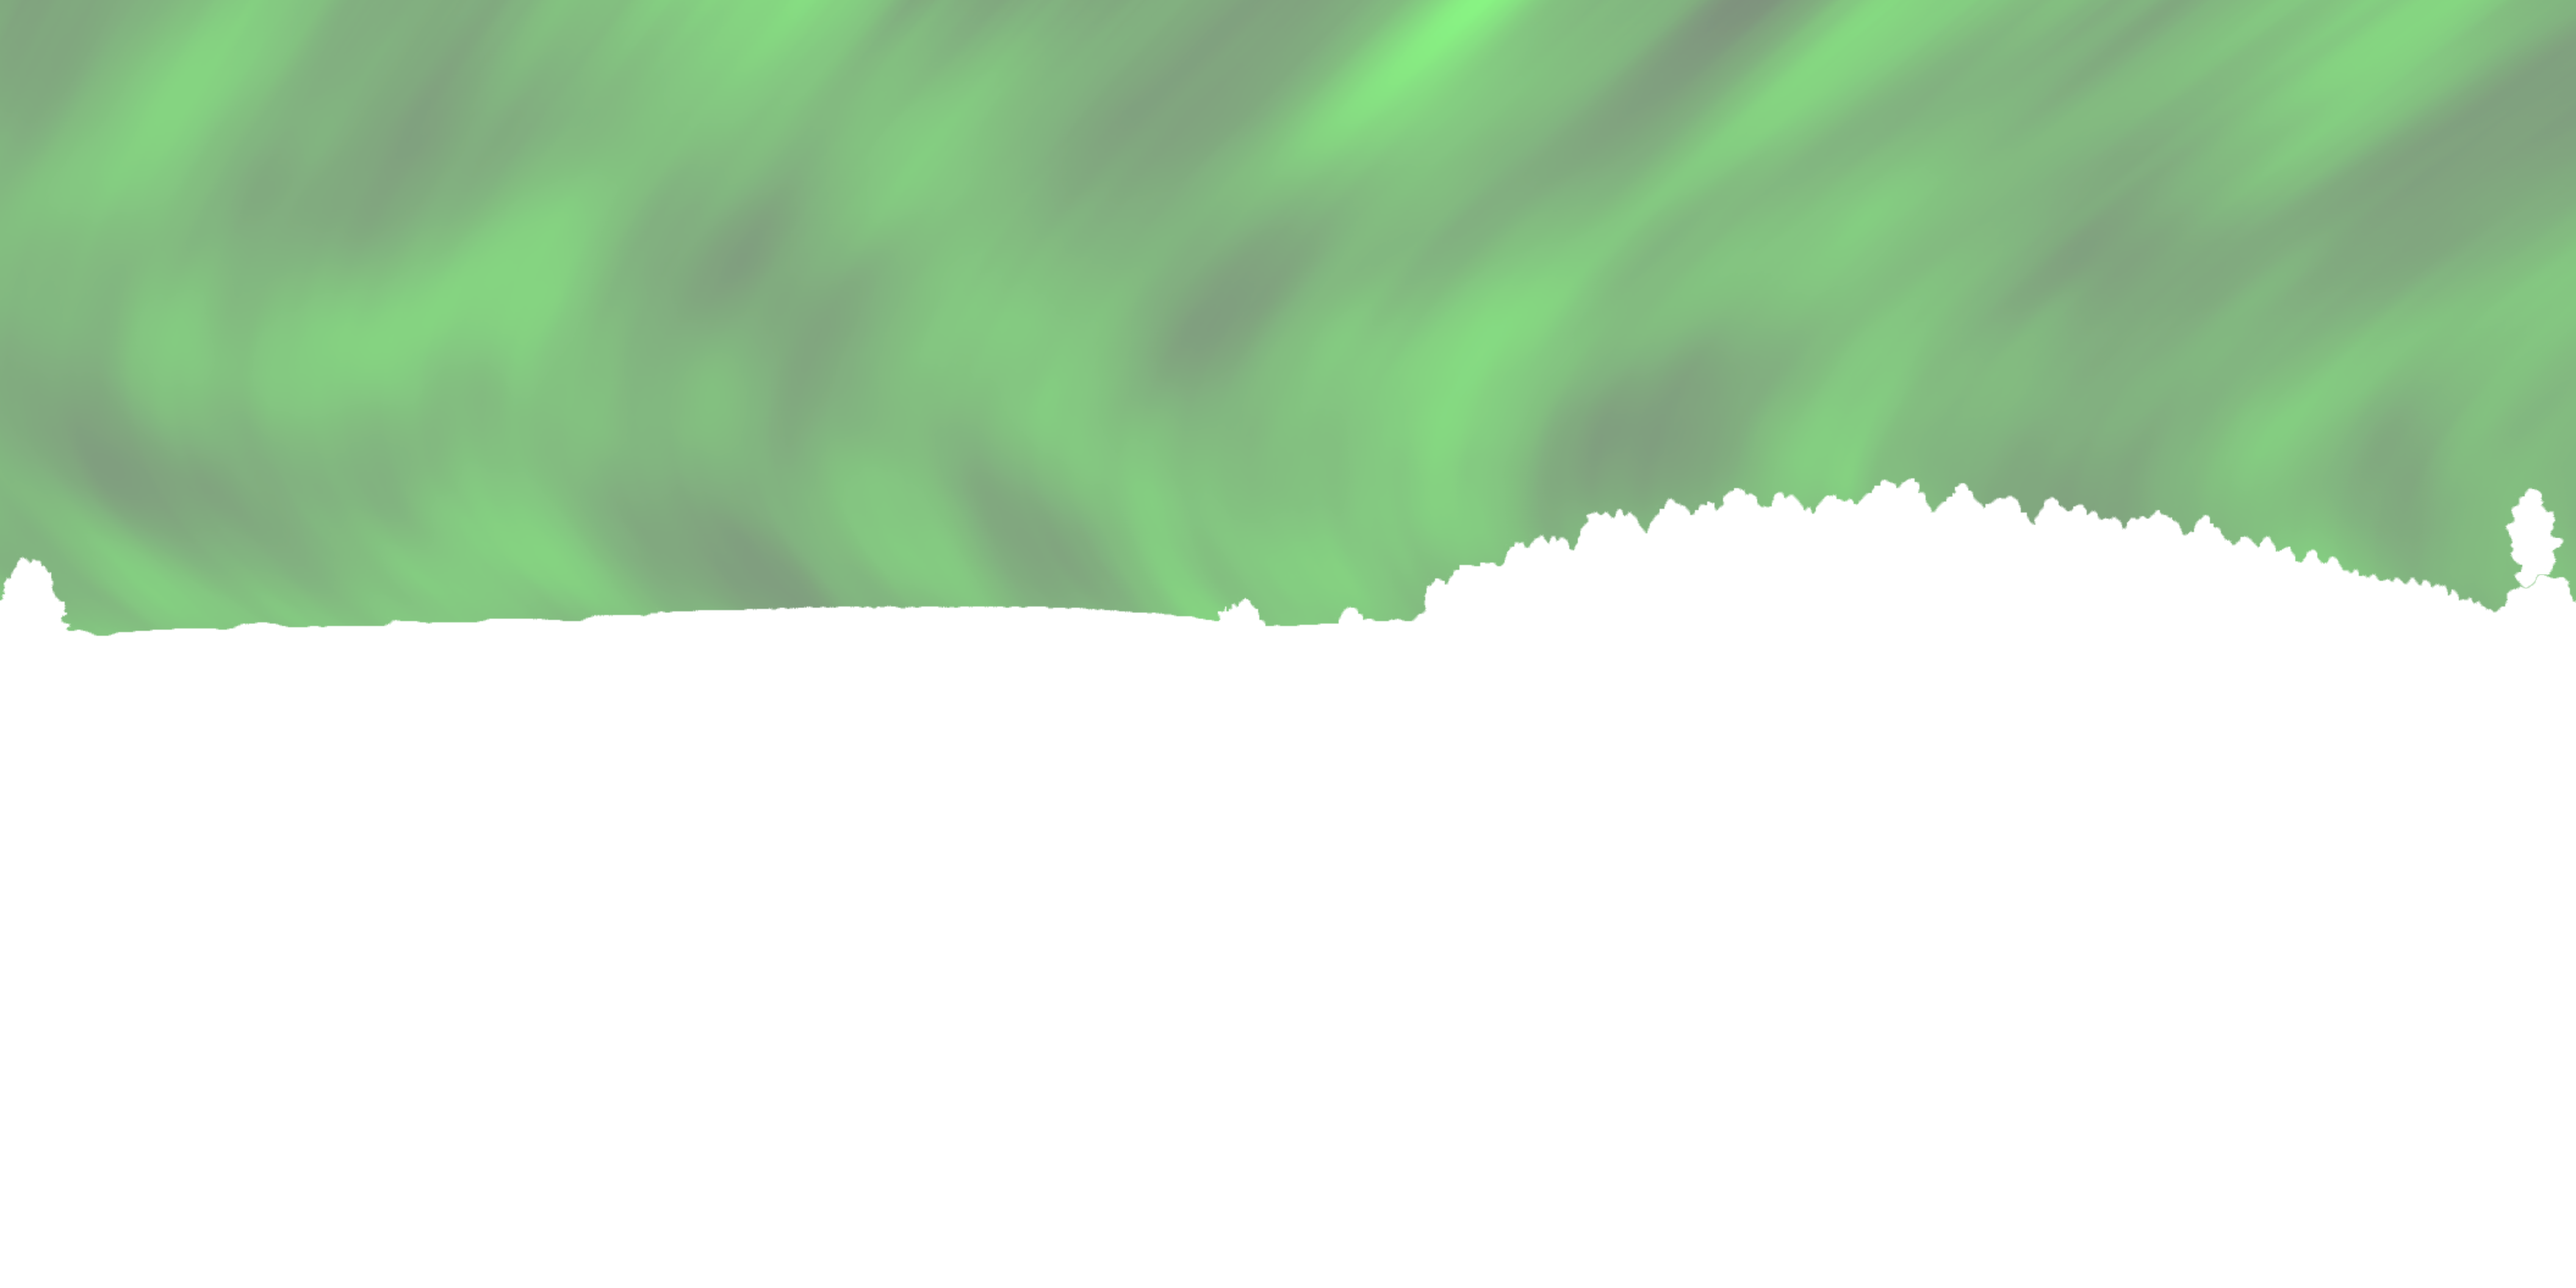
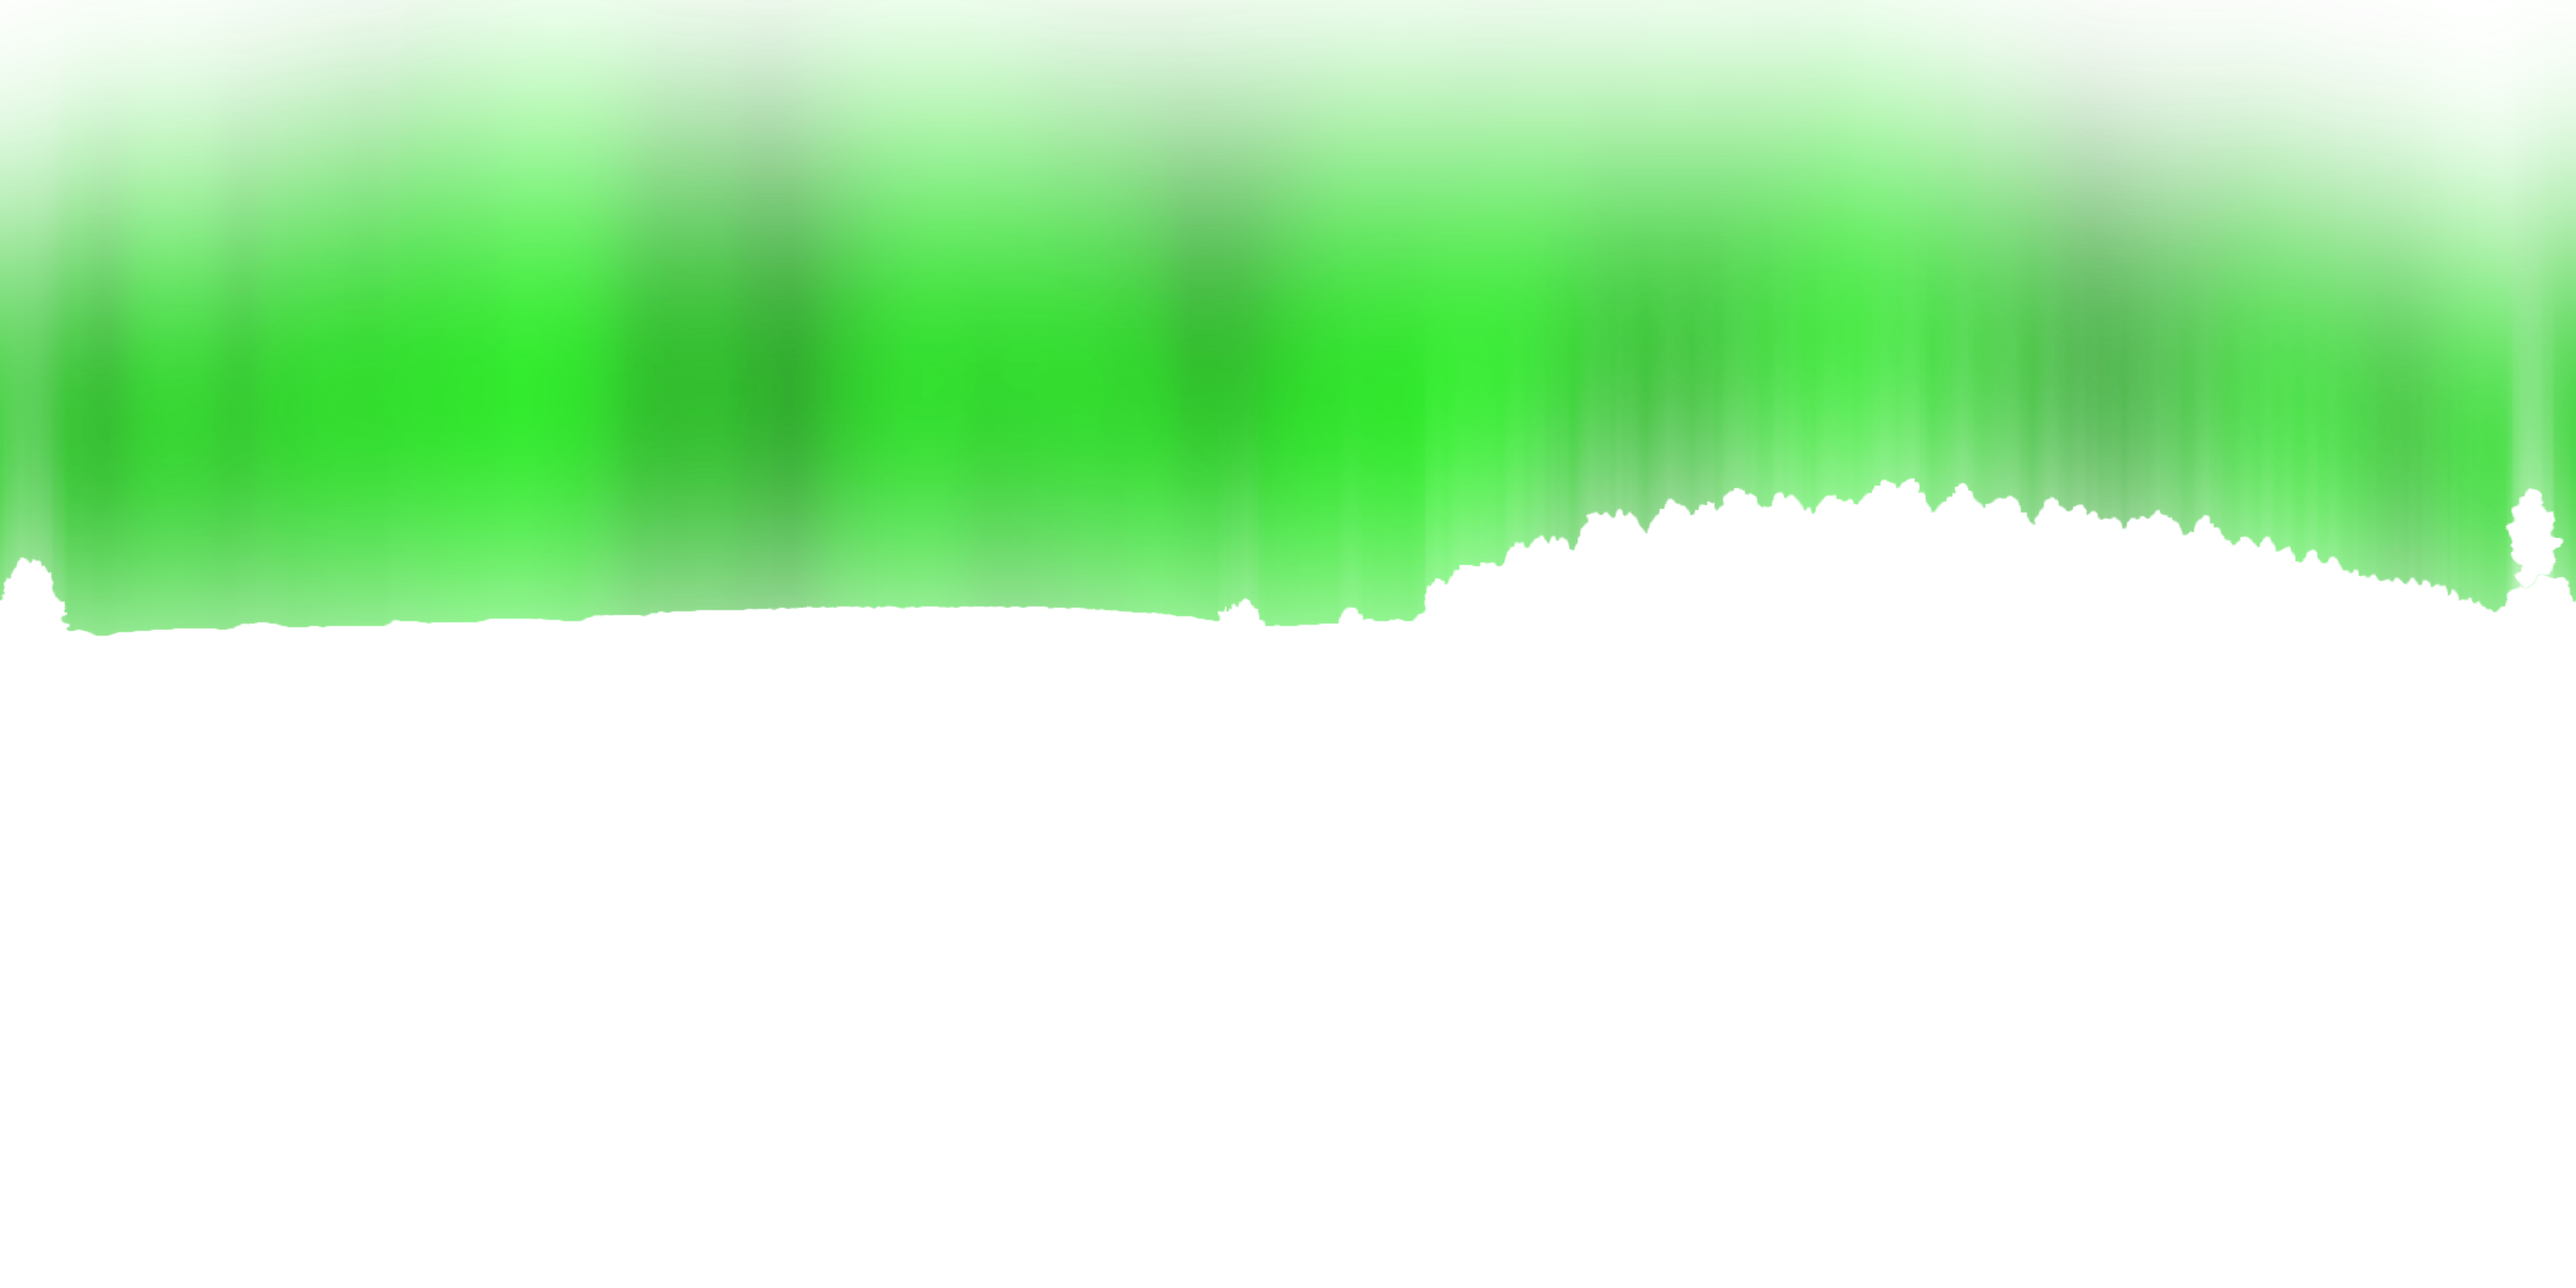
add star moon

diff --git a/index.html b/index.html
@@ -2,7 +2,7 @@
 
 <html lang="en">
 <head>
-<title>Web VR boilerplate</title>
+<title>-PolarRegion-WebVR-</title>
 <meta charset="utf-8">
 <meta name="viewport" content="width=device-width, user-scalable=no, minimum-scale=1.0, maximum-scale=1.0">
 <meta name="mobile-web-app-capable" content="yes">
@@ -91,7 +91,8 @@ effect.setSize(window.innerWidth, window.innerHeight);
 
 //create a sphere - we'll use the inner surface to project our image on to it
 var geometry  = new THREE.SphereGeometry(50, 200, 200)
-var lightgeometry  = new THREE.SphereGeometry(48, 200, 200)
+var lightgeometry  = new THREE.SphereGeometry(49, 200, 200)
+var stargeometry  = new THREE.SphereGeometry(48, 200, 200)
 
 // create the material, using a texture of mars
 var material  = new THREE.MeshBasicMaterial();
@@ -105,40 +106,12 @@ lightmaterial.side  = THREE.BackSide;
 lightmaterial.transparent = true;
 lightmaterial.opacity = 0.6;
 
-var lightflag = true;
-function lighttime(timestamp){
-  //var curopac = lightmaterial.opacity;
-    /*if(lightmaterial.opacity >= 0.7){
-      lightmaterial.opacity -= 0.02;
-    }else if(lightmaterial.opacity <= 0.3){
-      lightmaterial.opacity += 0.02;
-    }else{
-      if(Math.random() > 0.5){
-        lightmaterial.opacity += 0.02;
-      }else{
-        lightmaterial.opacity -= 0.02;
-      }
-    }*/
-    if(lightmaterial.opacity >= 0.7){
-      lightflag = false;
-      //lightmaterial.opacity = 0.2;
-    }
-    else if(lightmaterial.opacity <= 0.2){
-      lightflag = true;
-      //lightmaterial.opacity += 0.005;
-    }
-    if(lightflag == true){
-      lightmaterial.opacity += 0.005;
-    }else{
-      lightmaterial.opacity -= 0.005;
-    }
-    controls.update();
-
-    // Render the scene through the manager.
-    manager.render(scene, camera, timestamp);
-
-    requestAnimationFrame(lighttime);
-}
+//星空贴图
+var starmaterial  = new THREE.MeshBasicMaterial();
+starmaterial.map   = THREE.ImageUtils.loadTexture('img/star.png');
+starmaterial.side  = THREE.BackSide;
+starmaterial.transparent = true;
+starmaterial.opacity = 0.8;
 
 // create the mesh based on geometry and material
 var mesh  = new THREE.Mesh(geometry, material);
@@ -150,31 +123,40 @@ var lightmesh  = new THREE.Mesh(lightgeometry, lightmaterial);
 var lightskybox = new THREE.Mesh(lightgeometry, lightmaterial);
 scene.add(lightskybox);
 
-//lighttime();
-
+//将星空图层贴至场景中
+var starmesh  = new THREE.Mesh(stargeometry, starmaterial);
+var starskybox = new THREE.Mesh(stargeometry, starmaterial);
+scene.add(starskybox);
 
 // Create a VR manager helper to enter and exit VR mode.
 var manager = new WebVRManager(renderer, effect, {hideButton: false});
 
 // Create 3D objects.
-var geometry = new THREE.SphereGeometry(0.5, 32, 32);
-var material = new THREE.MeshBasicMaterial();
+var geometry = new THREE.SphereGeometry(2.5, 32, 32);
+var material = new THREE.MeshLambertMaterial();
 var earthMesh = new THREE.Mesh(geometry, material);
 
 // Position earth mesh
-earthMesh.position.z = 10;
-earthMesh.position.x = 15;
-earthMesh.position.y = 2;
+earthMesh.position.z = 30;
+earthMesh.position.x = 10;
+earthMesh.position.y = 15;
 
 
 // Add earth mesh to your three.js scene
 scene.add(earthMesh);
 
-material.map = THREE.ImageUtils.loadTexture('img/earthmap1k.jpg')
-
+material.map = THREE.ImageUtils.loadTexture('img/moon.jpg')
 
 // Add earthMesh mesh to your three.js scene
 scene.add(earthMesh);
+
+var light = new THREE.SpotLight(0xe2e2c5, 1, 100, Math.PI / 6, 25);
+light.position.set(20, 5, 5);
+light.target = earthMesh;
+light.castShadow = true;
+
+scene.add(light);
+
 // Request animation frame loop function
 function animate(timestamp) {
   // Apply rotation to earthMesh mesh
@@ -192,7 +174,49 @@ function animate(timestamp) {
 // Kick off animation loop
 animate();
 
+var lightflag = true;
+function lighttime(timestamp){
+    if(lightmaterial.opacity >= 0.6){
+      lightflag = false;
+    }
+    else if(lightmaterial.opacity <= 0.3){
+      lightflag = true;
+    }
+    if(lightflag == true){
+      lightmaterial.opacity += 0.005;
+    }else{
+      lightmaterial.opacity -= 0.005;
+    }
+    controls.update();
+
+    // Render the scene through the manager.
+    manager.render(scene, camera, timestamp);
+
+    requestAnimationFrame(lighttime);
+}
+
 lighttime();
+
+function startime(timestamp){
+    if(starmaterial.opacity >= 1){
+      starmaterial.opacity -= 0.07;
+    }
+    else if(starmaterial.opacity <= 0.3){
+      starmaterial.opacity += 0.07;
+    }else if(Math.random() > 0.5){
+      starmaterial.opacity += 0.07;
+    }else{
+      starmaterial.opacity -= 0.07;
+    }
+    controls.update();
+
+    // Render the scene through the manager.
+    manager.render(scene, camera, timestamp);
+
+    requestAnimationFrame(startime);
+}
+
+startime();
 
 // Reset the position sensor when 'z' pressed.
 function onKey(event) {
